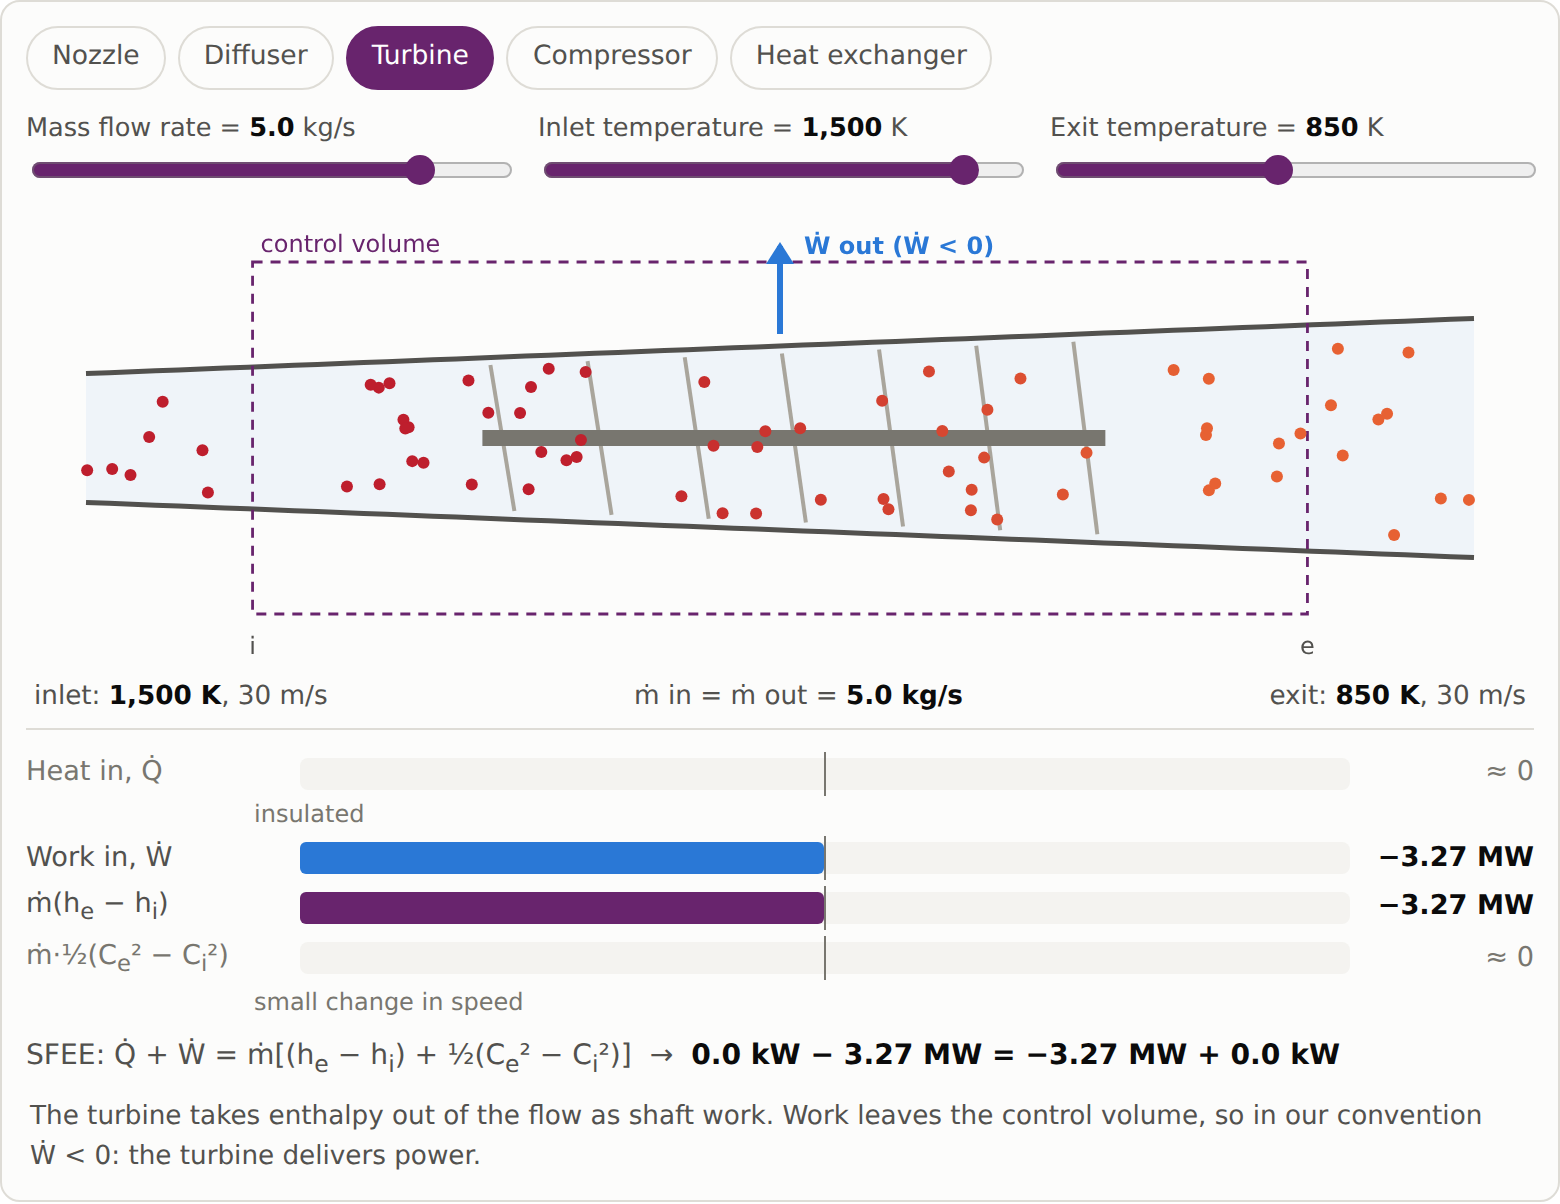
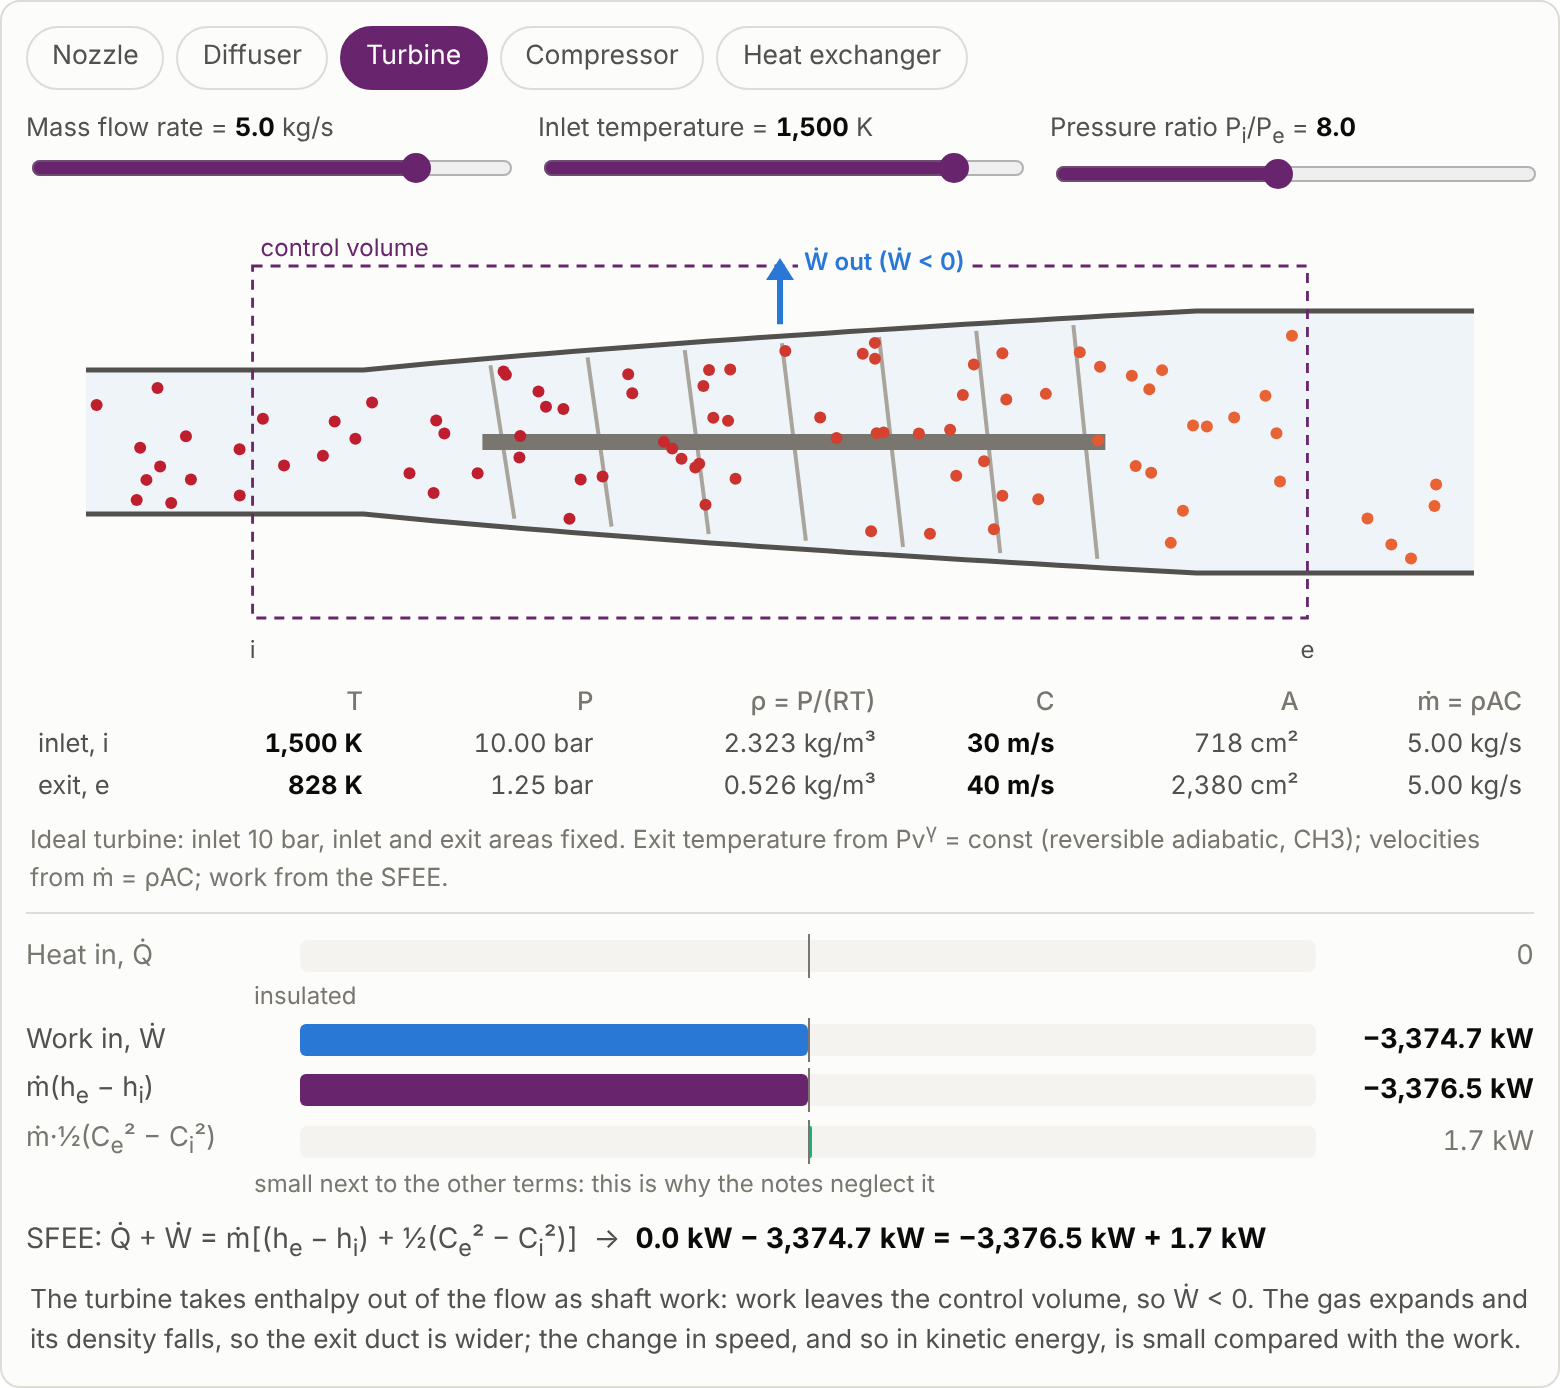
CH4 steady-flow widget: density from P/RT, velocities from continuity

diff --git a/widgets/steady-flow.html b/widgets/steady-flow.html
@@ -33,11 +33,17 @@
   .sliders output { font-weight: 650; color: var(--text-1); font-variant-numeric: tabular-nums; }
   input[type="range"] { width: 100%; accent-color: var(--accent); }
   canvas { display: block; width: 100%; height: auto; }
-  .states { display: flex; justify-content: space-between; font-size: 0.82rem; color: var(--text-2);
-            font-variant-numeric: tabular-nums; margin: 2px 4px 6px; gap: 10px; }
-  .states b { color: var(--text-1); }
+  .states { width: 100%; border-collapse: collapse; font-size: 0.8rem; color: var(--text-2);
+            font-variant-numeric: tabular-nums; margin: 2px 0 4px; }
+  .states th, .states td { padding: 1px 6px; text-align: right; white-space: nowrap; }
+  .states th { font-weight: 500; color: var(--text-3); }
+  .states td:first-child, .states th:first-child { text-align: left; }
+  .states td b { color: var(--text-1); }
+  .tablewrap { overflow-x: auto; }
+  @media (max-width: 520px) { .states { font-size: 0.72rem; } .states th, .states td { padding: 1px 3px; } }
+  .how { font-size: 0.78rem; color: var(--text-3); margin: 0 2px 6px; }
   .bars { border-top: 1px solid var(--border); padding-top: 8px; }
-  .brow { display: grid; grid-template-columns: 9.5em 1fr 6.2em; align-items: center; gap: 8px; margin: 3px 0; font-size: 0.85rem; }
+  .brow { display: grid; grid-template-columns: 9.5em 1fr 7.4em; align-items: center; gap: 8px; margin: 3px 0; font-size: 0.85rem; }
   .brow .name { color: var(--text-2); }
   .brow .val { text-align: right; font-weight: 650; font-variant-numeric: tabular-nums; }
   .track { position: relative; height: 16px; background: var(--surface-2); border-radius: 4px; }
@@ -53,12 +59,13 @@
 <body>
 <div class="wrap">
   <h1>Steady-flow devices and the SFEE</h1>
-  <p class="sub">Air flows steadily through a device. Change what the device does
-  and watch the energy balance: heat and work in (left of the equation) always
-  equal the change in enthalpy and kinetic energy of the flow (right). Air is
-  treated as an ideal gas with c<sub>p</sub> = 1005 J/(kg K), so
-  h<sub>e</sub> − h<sub>i</sub> = c<sub>p</sub>(T<sub>e</sub> − T<sub>i</sub>);
-  changes in height are neglected.</p>
+  <p class="sub">Air flows steadily through a device. Change the inlet and what the
+  device does, and watch the energy balance: heat and work in (left of the SFEE)
+  always equal the change in enthalpy and kinetic energy of the flow (right).
+  Air is an ideal gas (R = 287 J/(kg K), c<sub>p</sub> = 1005 J/(kg K)), so its
+  density is &rho; = P/(RT) and h<sub>e</sub> &minus; h<sub>i</sub> = c<sub>p</sub>(T<sub>e</sub> &minus; T<sub>i</sub>).
+  The velocities follow from conservation of mass, &#7745; = &rho;AC, with the
+  duct areas fixed (except where stated); changes in height are neglected.</p>
 
   <div class="panel">
     <div class="tabs" role="group" aria-label="Device">
@@ -70,7 +77,8 @@
     </div>
     <div class="sliders" id="sliders"></div>
     <canvas id="c" width="760" height="230" aria-label="Animated flow through the device"></canvas>
-    <div class="states"><span id="inlet"></span><span id="mflow"></span><span id="exit"></span></div>
+    <div class="tablewrap"><table class="states" id="states"></table></div>
+    <p class="how" id="how"></p>
     <div class="bars" id="bars"></div>
     <div class="eq" id="eq"></div>
     <p class="note" id="note"></p>
@@ -85,53 +93,81 @@
   const fmt = (x, d) => x.toLocaleString("en-GB", { minimumFractionDigits: d, maximumFractionDigits: d });
   const reduce = window.matchMedia("(prefers-reduced-motion: reduce)").matches;
 
-  // each device: sliders (id, label, unit, min, max, step, value) and a solver
-  // that returns the exit state and the four SFEE terms, in W
+  const RG = 287, GAM = 1.4, KP = (GAM - 1) / GAM;   // J/(kg K); (gamma-1)/gamma
+  const rhoOf = (P, T) => P / (RG * T);
+
+  // Each device: sliders (id, label, unit, min, max, step, value) and a solver.
+  // The solver fixes the inlet state (P, T, and C from m = rho A C with the
+  // inlet area fixed), finds the exit state, and returns everything the SFEE needs.
+  function inlet(v, Pi, Ai) { const rhoi = rhoOf(Pi, v.Ti); return { Pi, Ti: v.Ti, rhoi, Ai, Ci: v.m / (rhoi * Ai) }; }
+  function exitBy(o, Pe, Te, Ae) {           // exit state when the exit area is fixed
+    o.Pe = Pe; o.Te = Te; o.rhoe = rhoOf(Pe, Te); o.Ae = Ae; o.Ce = o.m / (o.rhoe * Ae); return o;
+  }
   const DEV = {
     nozzle: {
-      sliders: [["m", "Mass flow rate", "kg/s", 0.2, 5, 0.1, 1], ["Ti", "Inlet temperature", "K", 300, 1500, 5, 1000],
-                ["Ce", "Exit velocity", "m/s", 40, 800, 5, 500]],
-      fixed: { Ci: 40 },
-      solve(v) { const Ci = 40, Ce = v.Ce; const Te = v.Ti - (Ce * Ce - Ci * Ci) / (2 * CP);
-                 return { Te, Ci, Ce, Q: 0, W: 0 }; },
+      sliders: [["m", "Mass flow rate", "kg/s", 0.2, 2, 0.1, 1], ["Ti", "Inlet temperature", "K", 300, 1500, 10, 1000],
+                ["Pe", "Exit pressure", "bar", 1.6, 2.9, 0.05, 1.8]],
+      how: "Inlet: 3 bar, fixed area. Exit temperature from Pv<sup>&gamma;</sup> = const (reversible adiabatic, CH3), exit velocity from the SFEE, and the exit area the nozzle needs from &#7745; = &rho;AC.",
+      solve(v) {
+        const o = inlet(v, 3e5, 0.0239); o.m = v.m;
+        o.Pe = v.Pe * 1e5; o.Te = v.Ti * Math.pow(o.Pe / o.Pi, KP);
+        o.Ce = Math.sqrt(o.Ci * o.Ci + 2 * CP * (o.Ti - o.Te));
+        o.rhoe = rhoOf(o.Pe, o.Te); o.Ae = o.m / (o.rhoe * o.Ce);
+        o.Q = 0; o.W = 0; return o;
+      },
       zero: { Q: "insulated: little time for heat transfer", W: "no shaft" },
-      note: "In a nozzle the flow speeds up. With no heat and no work, the kinetic energy can only come from the enthalpy: the air cools as it accelerates.",
+      note: "In a nozzle the flow speeds up. With no heat and no work, the kinetic energy can only come from the enthalpy: the air cools as it accelerates. A hotter inlet gives a larger enthalpy drop for the same pressure drop, so the air leaves faster.",
     },
     diffuser: {
-      sliders: [["m", "Mass flow rate", "kg/s", 0.2, 5, 0.1, 1], ["Ti", "Inlet temperature", "K", 250, 600, 5, 300],
-                ["Ce", "Exit velocity", "m/s", 5, 250, 5, 30]],
-      solve(v) { const Ci = 250, Ce = v.Ce; const Te = v.Ti - (Ce * Ce - Ci * Ci) / (2 * CP);
-                 return { Te, Ci, Ce, Q: 0, W: 0 }; },
+      sliders: [["m", "Mass flow rate", "kg/s", 0.2, 1, 0.05, 1], ["Ti", "Inlet temperature", "K", 250, 450, 5, 300],
+                ["Ce", "Exit velocity", "m/s", 10, 150, 5, 40]],
+      how: "Inlet: 1 bar, fixed area. Exit temperature from the SFEE, exit pressure from Pv<sup>&gamma;</sup> = const (reversible adiabatic, CH3), and the exit area the diffuser needs from &#7745; = &rho;AC.",
+      solve(v) {
+        const o = inlet(v, 1e5, 0.003444); o.m = v.m;
+        o.Ce = Math.min(v.Ce, 0.9 * o.Ci); o.limited = o.Ce < v.Ce;
+        o.Te = o.Ti + (o.Ci * o.Ci - o.Ce * o.Ce) / (2 * CP);
+        o.Pe = o.Pi * Math.pow(o.Te / o.Ti, 1 / KP);
+        o.rhoe = rhoOf(o.Pe, o.Te); o.Ae = o.m / (o.rhoe * o.Ce);
+        o.Q = 0; o.W = 0; return o;
+      },
       zero: { Q: "insulated", W: "no shaft" },
-      note: "In a diffuser the flow slows down, and the kinetic energy it loses goes into enthalpy: the air leaves warmer (and at a higher pressure) than it came in.",
+      note: "In a diffuser the flow slows down, and the kinetic energy it loses goes into enthalpy: the air leaves warmer and at a higher pressure than it came in.",
     },
     turbine: {
-      sliders: [["m", "Mass flow rate", "kg/s", 0.2, 6, 0.1, 5], ["Ti", "Inlet temperature", "K", 600, 1600, 10, 1500],
-                ["Te", "Exit temperature", "K", 300, 1500, 10, 850]],
-      clampTe: "below",
-      solve(v) { const Te = Math.min(v.Te, v.Ti); const C = 30;
-                 return { Te, Ci: C, Ce: C, Q: 0, W: v.m * CP * (Te - v.Ti) }; },
-      zero: { Q: "insulated", KE: "small change in speed" },
-      note: "The turbine takes enthalpy out of the flow as shaft work. Work leaves the control volume, so in our convention Ẇ < 0: the turbine delivers power.",
+      sliders: [["m", "Mass flow rate", "kg/s", 0.5, 6, 0.1, 5], ["Ti", "Inlet temperature", "K", 800, 1600, 10, 1500],
+                ["r", "Pressure ratio P<sub>i</sub>/P<sub>e</sub>", "", 2, 15, 0.5, 8]],
+      how: "Ideal turbine: inlet 10 bar, inlet and exit areas fixed. Exit temperature from Pv<sup>&gamma;</sup> = const (reversible adiabatic, CH3); velocities from &#7745; = &rho;AC; work from the SFEE.",
+      solve(v) {
+        const o = inlet(v, 10e5, 0.0718); o.m = v.m;
+        exitBy(o, o.Pi / v.r, v.Ti * Math.pow(1 / v.r, KP), 0.238);
+        o.Q = 0; o.W = o.m * (CP * (o.Te - o.Ti) + 0.5 * (o.Ce * o.Ce - o.Ci * o.Ci)); return o;
+      },
+      zero: { Q: "insulated" },
+      note: "The turbine takes enthalpy out of the flow as shaft work: work leaves the control volume, so Ẇ < 0. The gas expands and its density falls, so the exit duct is wider; the change in speed, and so in kinetic energy, is small compared with the work.",
     },
     compressor: {
-      sliders: [["m", "Mass flow rate", "kg/s", 0.2, 6, 0.1, 2], ["Ti", "Inlet temperature", "K", 250, 400, 5, 290],
-                ["Te", "Exit temperature", "K", 250, 900, 5, 600]],
-      clampTe: "above",
-      solve(v) { const Te = Math.max(v.Te, v.Ti); const C = 30;
-                 return { Te, Ci: C, Ce: C, Q: 0, W: v.m * CP * (Te - v.Ti) }; },
-      zero: { Q: "insulated", KE: "small change in speed" },
-      note: "Work goes into the air through the shaft, so Ẇ > 0, and it shows up as a rise in enthalpy: the air leaves the compressor hotter.",
+      sliders: [["m", "Mass flow rate", "kg/s", 0.5, 4, 0.1, 2], ["Ti", "Inlet temperature", "K", 250, 400, 5, 290],
+                ["r", "Pressure ratio P<sub>e</sub>/P<sub>i</sub>", "", 2, 15, 0.5, 8]],
+      how: "Ideal compressor: inlet 1 bar, inlet and exit areas fixed. Exit temperature from Pv<sup>&gamma;</sup> = const (reversible adiabatic, CH3); velocities from &#7745; = &rho;AC; work from the SFEE.",
+      solve(v) {
+        const o = inlet(v, 1e5, 0.0416); o.m = v.m;
+        exitBy(o, o.Pi * v.r, v.Ti * Math.pow(v.r, KP), 0.02);
+        o.Q = 0; o.W = o.m * (CP * (o.Te - o.Ti) + 0.5 * (o.Ce * o.Ce - o.Ci * o.Ci)); return o;
+      },
+      zero: { Q: "insulated" },
+      note: "Work goes into the air through the shaft, so Ẇ > 0, and it shows up as a rise in enthalpy: the air leaves hotter. The gas is compressed and its density rises, so the exit duct is narrower.",
     },
     hx: {
-      sliders: [["m", "Mass flow rate", "kg/s", 0.2, 5, 0.1, 1], ["Ti", "Inlet temperature", "K", 280, 800, 5, 300],
-                ["Q", "Heat transfer rate", "kW", -400, 400, 5, 200]],
-      // cooling is limited so the air cannot leave colder than 220 K
-      solve(v) { const Qmin = v.m * CP * (220 - v.Ti); const Q = Math.max(v.Q * 1000, Qmin);
-                 const Te = v.Ti + Q / (v.m * CP); const C = 15;
-                 return { Te, Ci: C, Ce: C, Q, W: 0, limited: Q > v.Q * 1000 + 1 }; },
-      zero: { W: "no shaft", KE: "small change in speed" },
-      note: "A heat exchanger only exchanges heat: Q̇ > 0 heats the flow (a boiler), Q̇ < 0 cools it (a condenser or a cooler).",
+      sliders: [["m", "Mass flow rate", "kg/s", 0.2, 2, 0.1, 1], ["Ti", "Inlet temperature", "K", 280, 800, 5, 300],
+                ["Te", "Exit temperature", "K", 250, 900, 5, 500]],
+      how: "A straight pipe of fixed area; the pressure stays at 1 bar. Velocities from &#7745; = &rho;AC; heat transfer from the SFEE.",
+      solve(v) {
+        const o = inlet(v, 1e5, 0.0574); o.m = v.m;
+        exitBy(o, 1e5, v.Te, 0.0574);
+        o.W = 0; o.Q = o.m * (CP * (o.Te - o.Ti) + 0.5 * (o.Ce * o.Ce - o.Ci * o.Ci)); return o;
+      },
+      zero: { W: "no shaft" },
+      note: "Heating lowers the density at constant pressure, so the same mass flow has to move faster at the exit (and slower when cooled). The kinetic-energy change is still tiny next to Q̇: Q̇ > 0 heats the flow (a boiler), Q̇ < 0 cools it (a condenser or a cooler).",
     },
   };
   let dev = "nozzle", vals = {};
@@ -151,41 +187,49 @@
 
   // ------------------------------------------------------------ results --
   let R = null;
+  const dec = st => (st < 0.1 ? 2 : st < 1 ? 1 : 0);
   function update() {
     const d = DEV[dev];
-    for (const [id, , , , , st] of d.sliders) $("o_" + id).textContent = fmt(vals[id], st < 1 ? 1 : 0);
+    for (const [id, , , , , st] of d.sliders) $("o_" + id).textContent = fmt(vals[id], dec(st));
     const r = d.solve(vals);
-    r.m = vals.m; r.Ti = vals.Ti;
     r.H = r.m * CP * (r.Te - r.Ti);
     r.KE = r.m * 0.5 * (r.Ce * r.Ce - r.Ci * r.Ci);
     R = r;
+    if (r.limited) $("o_Ce").textContent = fmt(r.Ce, 0);
 
-    $("inlet").innerHTML = "inlet: <b>" + fmt(r.Ti, 0) + " K</b>, " + fmt(r.Ci, 0) + " m/s";
-    $("mflow").innerHTML = "&#7745; in = &#7745; out = <b>" + fmt(r.m, 1) + " kg/s</b>";
-    $("exit").innerHTML = "exit: <b>" + fmt(r.Te, 0) + " K</b>, " + fmt(r.Ce, 0) + " m/s";
+    const row = (name, P, T, rho, C, A) => "<tr><td>" + name + "</td><td><b>" + fmt(T, 0) + " K</b></td><td>" +
+      fmt(P / 1e5, 2) + " bar</td><td>" + fmt(rho, 3) + " kg/m³</td><td><b>" + fmt(C, 0) + " m/s</b></td><td>" +
+      fmt(A * 1e4, 0) + " cm²</td><td>" + fmt(rho * A * C, 2) + " kg/s</td></tr>";
+    $("states").innerHTML = "<tr><th></th><th>T</th><th>P</th><th>&rho; = P/(RT)</th><th>C</th><th>A</th><th>&#7745; = &rho;AC</th></tr>" +
+      row("inlet, i", r.Pi, r.Ti, r.rhoi, r.Ci, r.Ai) + row("exit, e", r.Pe, r.Te, r.rhoe, r.Ce, r.Ae);
+    $("how").innerHTML = d.how;
 
     const rows = [
       ["Q", "Heat in, Q̇", "#eb6834"], ["W", "Work in, Ẇ", "#2a78d6"],
       ["H", "ṁ(h<sub>e</sub> − h<sub>i</sub>)", "#68246D"], ["KE", "ṁ·½(C<sub>e</sub>² − C<sub>i</sub>²)", "#1baf7a"],
     ];
     const scale = Math.max(1, ...rows.map(([k]) => Math.abs(r[k])));
-    const kw = x => (x < -0.5 ? "\u2212" : "") +
-      (Math.abs(x) >= 1e6 ? fmt(Math.abs(x) / 1e6, 2) + " MW" : fmt(Math.abs(x) / 1000, Math.abs(x) < 1e4 ? 1 : 0) + " kW");
-    const plus = x => (x < -0.5 ? " \u2212 " + kw(-x) : " + " + kw(x));
+    // always kW with one decimal, so the two sides visibly add up
+    const kw = x => (x < -50 ? "\u2212" : "") + fmt(Math.abs(x) / 1000, 1) + " kW";
+    const plus = x => (x < -50 ? " − " + kw(-x) : " + " + kw(x));
     $("bars").innerHTML = rows.map(([k, name, col]) => {
-      const z = d.zero && d.zero[k];
+      const z = d.zero && d.zero[k];                       // zero by assumption
+      const small = !z && k === "KE" && dev !== "nozzle" && dev !== "diffuser";
+      const tiny = small && Math.abs(r.KE) < 0.05 * scale;
       const f = Math.abs(r[k]) / scale * 50, left = r[k] >= 0 ? 50 : 50 - f;
-      return "<div class='brow" + (z ? " zero" : "") + "'><span class='name'>" + name + "</span>" +
-        "<span class='track'>" + (z ? "" : "<i style='left:" + left + "%;width:" + f + "%;background:" + col + "'></i>") + "</span>" +
-        "<span class='val'>" + (z ? "≈ 0" : kw(r[k])) + "</span></div>" +
-        (z ? "<div class='legend' style='margin:-2px 0 2px 9.5em'>" + z + "</div>" : "");
+      const legend = z ? z : small ? (tiny ? "small next to the other terms: this is why the notes neglect it"
+                                           : "not small here: neglecting it would be a poor approximation") : "";
+      return "<div class='brow" + (z || tiny ? " zero" : "") + "'><span class='name'>" + name + "</span>" +
+        "<span class='track'>" + (z ? "" : "<i style='left:" + left + "%;width:" + Math.max(f, 0.4) + "%;background:" + col + "'></i>") + "</span>" +
+        "<span class='val'>" + (z ? "0" : kw(r[k])) + "</span></div>" +
+        (legend ? "<div class='legend' style='margin:-2px 0 2px 9.5em'>" + legend + "</div>" : "");
     }).join("");
     $("eq").innerHTML = "SFEE: Q̇ + Ẇ = ṁ[(h<sub>e</sub> − h<sub>i</sub>) + ½(C<sub>e</sub>² − C<sub>i</sub>²)] &nbsp;→&nbsp; <b>" +
       kw(r.Q) + plus(r.W) + " = " + kw(r.H) + plus(r.KE) + "</b>";
     let note = d.note;
-    if (r.limited) { $("o_Q").textContent = fmt(r.Q / 1000, 0);
-      note = "That much cooling would take the air below 220 K, so the heat removed is limited to " + kw(-r.Q) + " here. " + note; }
+    if (r.limited) note = "The exit velocity is limited to 90% of the inlet velocity (" + fmt(r.Ci, 0) + " m/s here), since a diffuser slows the flow down. " + note;
     $("note").textContent = note;
+    postHeight();
   }
 
   // -------------------------------------------------------------- canvas --
@@ -195,32 +239,17 @@
     W = Math.max(280, Math.min(760, Math.round(cv.parentElement.clientWidth - 24)));
     cv.style.aspectRatio = W + " / " + H;
   }
-  // half-height of the duct along x (0..1)
+  const BASE = { nozzle: 62, diffuser: 22, turbine: 36, compressor: 62, hx: 40 };   // inlet half-height, px
+  const ramp = x => (x < 0.2 ? 0 : x > 0.8 ? 1 : (x - 0.2) / 0.6);
+  // the drawn half-height is proportional to sqrt(area): the duct is drawn to scale
+  function areaAt(x) { const r = R; return r.Ai + (r.Ae - r.Ai) * ramp(x); }
   function halfH(x) {
-    const r = R; if (!r) return 40;
-    const base = 46;
-    if (dev === "nozzle" || dev === "diffuser") {
-      // area ~ 1/C (density changes ignored for the drawing)
-      const a = Math.min(1.8, Math.max(0.25, r.Ci / r.Ce));
-      const s = x < 0.2 ? 1 : x > 0.8 ? a : 1 + (a - 1) * (x - 0.2) / 0.6;
-      return base * Math.sqrt(s) * (dev === "nozzle" ? 1.15 : 0.75);
-    }
-    if (dev === "turbine") return base * (0.7 + 0.6 * x);
-    if (dev === "compressor") return base * (1.3 - 0.6 * x);
-    return base * 0.75;
+    if (!R) return 40;
+    return Math.max(8, Math.min(82, BASE[dev] * Math.sqrt(areaAt(x) / R.Ai)));
   }
-  function vel(x) {           // local speed along the duct, m/s
-    const r = R; if (!r) return 0;
-    if (dev === "nozzle" || dev === "diffuser") {
-      const t = x < 0.2 ? 0 : x > 0.8 ? 1 : (x - 0.2) / 0.6;
-      return r.Ci + (r.Ce - r.Ci) * t;
-    }
-    return r.Ci;
-  }
-  function tempAt(x) {
-    const r = R; const t = x < 0.2 ? 0 : x > 0.8 ? 1 : (x - 0.2) / 0.6;
-    return r.Ti + (r.Te - r.Ti) * t;
-  }
+  function rhoAt(x) { return R.rhoi + (R.rhoe - R.rhoi) * ramp(x); }
+  function vel(x) { return R ? R.m / (rhoAt(x) * areaAt(x)) : 0; }     // continuity: C = m/(rho A)
+  function tempAt(x) { return R.Ti + (R.Te - R.Ti) * ramp(x); }
   function colour(T) {        // cool blue -> warm orange-red, 250..1600 K
     const f = Math.min(1, Math.max(0, (T - 250) / 1100));
     const a = [42, 120, 214], b = [190, 30, 45], m = [235, 104, 52];
@@ -229,7 +258,7 @@
   }
 
   const parts = [];
-  for (let i = 0; i < 70; i++) parts.push({ x: Math.random(), y: Math.random() * 2 - 1 });
+  for (let i = 0; i < 90; i++) parts.push({ x: Math.random(), y: Math.random() * 2 - 1 });
 
   function draw(dt) {
     const dpr = window.devicePixelRatio || 1;
@@ -265,7 +294,8 @@
       ctx.fillStyle = "#78766f"; ctx.fillRect(X(0.3) - 10, cy - 4, X(0.72) - X(0.3) + 20, 8);
       // the shaft and the work arrow
       const out = dev === "turbine";
-      arrowV(X(0.5), out ? cy - halfH(0.5) - 6 : cy - halfH(0.5) - 50, out ? cy - halfH(0.5) - 50 : cy - halfH(0.5) - 6, "#2a78d6",
+      const yd = cy - halfH(0.5) - 6, yt = Math.max(22, yd - 44);   // keep the label inside the canvas
+      arrowV(X(0.5), out ? yd : yt, out ? yt : yd, "#2a78d6",
              (out ? "Ẇ out (Ẇ < 0)" : "Ẇ in (Ẇ > 0)"));
     }
     if (dev === "hx" && R) {
@@ -277,10 +307,12 @@
     }
 
     // particles: speed follows the local velocity, colour the local temperature
-    const vmax = Math.max(R.Ci, R.Ce, 40);
+    // particles are parcels of air: they move at (a compressed version of) the
+    // local velocity, so they bunch up where the flow is slow and dense
+    const vmax = Math.max(R.Ci, R.Ce, 1);
     for (const p of parts) {
       const v = vel(p.x);
-      p.x += dt * (0.08 + 0.42 * v / vmax) * (reduce ? 0 : 1);
+      p.x += dt * (0.02 + 0.5 * Math.pow(v / vmax, 0.7)) * (reduce ? 0 : 1);
       if (p.x > 1) { p.x -= 1; p.y = Math.random() * 2 - 1; }
       ctx.fillStyle = colour(tempAt(p.x));
       ctx.beginPath(); ctx.arc(X(p.x), cy + p.y * (halfH(p.x) - 5), 3, 0, Math.PI * 2); ctx.fill();
@@ -292,7 +324,9 @@
     const dir = y1 > y0 ? 1 : -1;
     ctx.beginPath(); ctx.moveTo(x, y1 + 2 * dir); ctx.lineTo(x - 7, y1 - 9 * dir); ctx.lineTo(x + 7, y1 - 9 * dir); ctx.closePath(); ctx.fill();
     if (label) { ctx.font = "600 12px system-ui, sans-serif"; ctx.textAlign = "left";
-      ctx.fillText(label, x + 12, below ? Math.max(y0, y1) - 6 : Math.min(y0, y1) + 4); }
+      const ty = below ? Math.max(y0, y1) - 6 : Math.min(y0, y1) + 4, tw = ctx.measureText(label).width;
+      ctx.fillStyle = "#fcfcfb"; ctx.fillRect(x + 9, ty - 11, tw + 6, 15);   // backing, so dashed lines don't cross it
+      ctx.fillStyle = col; ctx.fillText(label, x + 12, ty); }
   }
 
   // ---------------------------------------------------------------- wire --
